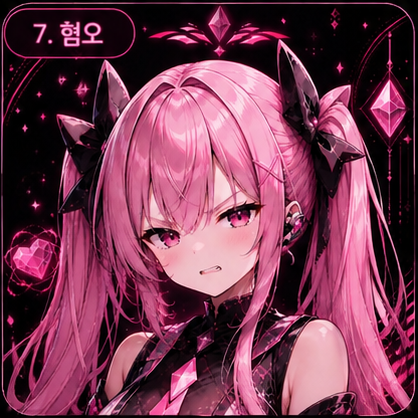
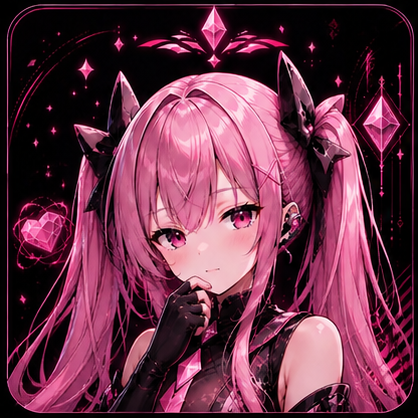
Auto-greeting on launch, fill image, new emotion sprites
- Replace emotion face sprites with new emotion.png set
- scaledToFill + clipped: image now fills the screen edge-to-edge
- prepareAudioSession now runs LLM+TTS greeting at startup to warm
  up API connections so first real user conversation is faster

diff --git a/WatchVoiceApp/Sources/ContentView.swift b/WatchVoiceApp/Sources/ContentView.swift
@@ -40,17 +40,18 @@ struct ContentView: View {
             Color.black.ignoresSafeArea()
 
             ZStack {
-                faceNeutral  .resizable().scaledToFit().opacity(remi.emotion == "neutral"   ? 1 : 0)
-                faceHappy    .resizable().scaledToFit().opacity(remi.emotion == "happy"     ? 1 : 0)
-                faceSad      .resizable().scaledToFit().opacity(remi.emotion == "sad"       ? 1 : 0)
-                faceAngry    .resizable().scaledToFit().opacity(remi.emotion == "angry"     ? 1 : 0)
-                faceSurprised.resizable().scaledToFit().opacity(remi.emotion == "surprised" ? 1 : 0)
-                faceFearful  .resizable().scaledToFit().opacity(remi.emotion == "fearful"   ? 1 : 0)
-                faceDisgust  .resizable().scaledToFit().opacity(remi.emotion == "disgust"   ? 1 : 0)
-                faceShy      .resizable().scaledToFit().opacity(remi.emotion == "shy"       ? 1 : 0)
-                faceConfident.resizable().scaledToFit().opacity(remi.emotion == "confident" ? 1 : 0)
+                faceNeutral  .resizable().scaledToFill().opacity(remi.emotion == "neutral"   ? 1 : 0)
+                faceHappy    .resizable().scaledToFill().opacity(remi.emotion == "happy"     ? 1 : 0)
+                faceSad      .resizable().scaledToFill().opacity(remi.emotion == "sad"       ? 1 : 0)
+                faceAngry    .resizable().scaledToFill().opacity(remi.emotion == "angry"     ? 1 : 0)
+                faceSurprised.resizable().scaledToFill().opacity(remi.emotion == "surprised" ? 1 : 0)
+                faceFearful  .resizable().scaledToFill().opacity(remi.emotion == "fearful"   ? 1 : 0)
+                faceDisgust  .resizable().scaledToFill().opacity(remi.emotion == "disgust"   ? 1 : 0)
+                faceShy      .resizable().scaledToFill().opacity(remi.emotion == "shy"       ? 1 : 0)
+                faceConfident.resizable().scaledToFill().opacity(remi.emotion == "confident" ? 1 : 0)
             }
             .frame(maxWidth: .infinity, maxHeight: .infinity)
+            .clipped()
             .scaleEffect(breathScale)
             .animation(.easeInOut(duration: 0.4), value: remi.emotion)
             .ignoresSafeArea()

diff --git a/WatchVoiceApp/Sources/AudioManager.swift b/WatchVoiceApp/Sources/AudioManager.swift
@@ -56,9 +56,16 @@ class RemiManager: ObservableObject {
     // MARK: - Public interface
 
     func prepareAudioSession() {
-        Task {
-            try? await activateAudioSession()
+        Task { [weak self] in
+            guard let self else { return }
+            try? await self.activateAudioSession()
             await MainActor.run { self.warmupRecordEngine() }
+            await MainActor.run { self.isLoading = true }
+            do {
+                let reply = try await self.fetchRemiLine(userInput: nil)
+                try await self.streamTTS(text: reply)
+            } catch {}
+            await MainActor.run { self.resetState() }
         }
     }
 
